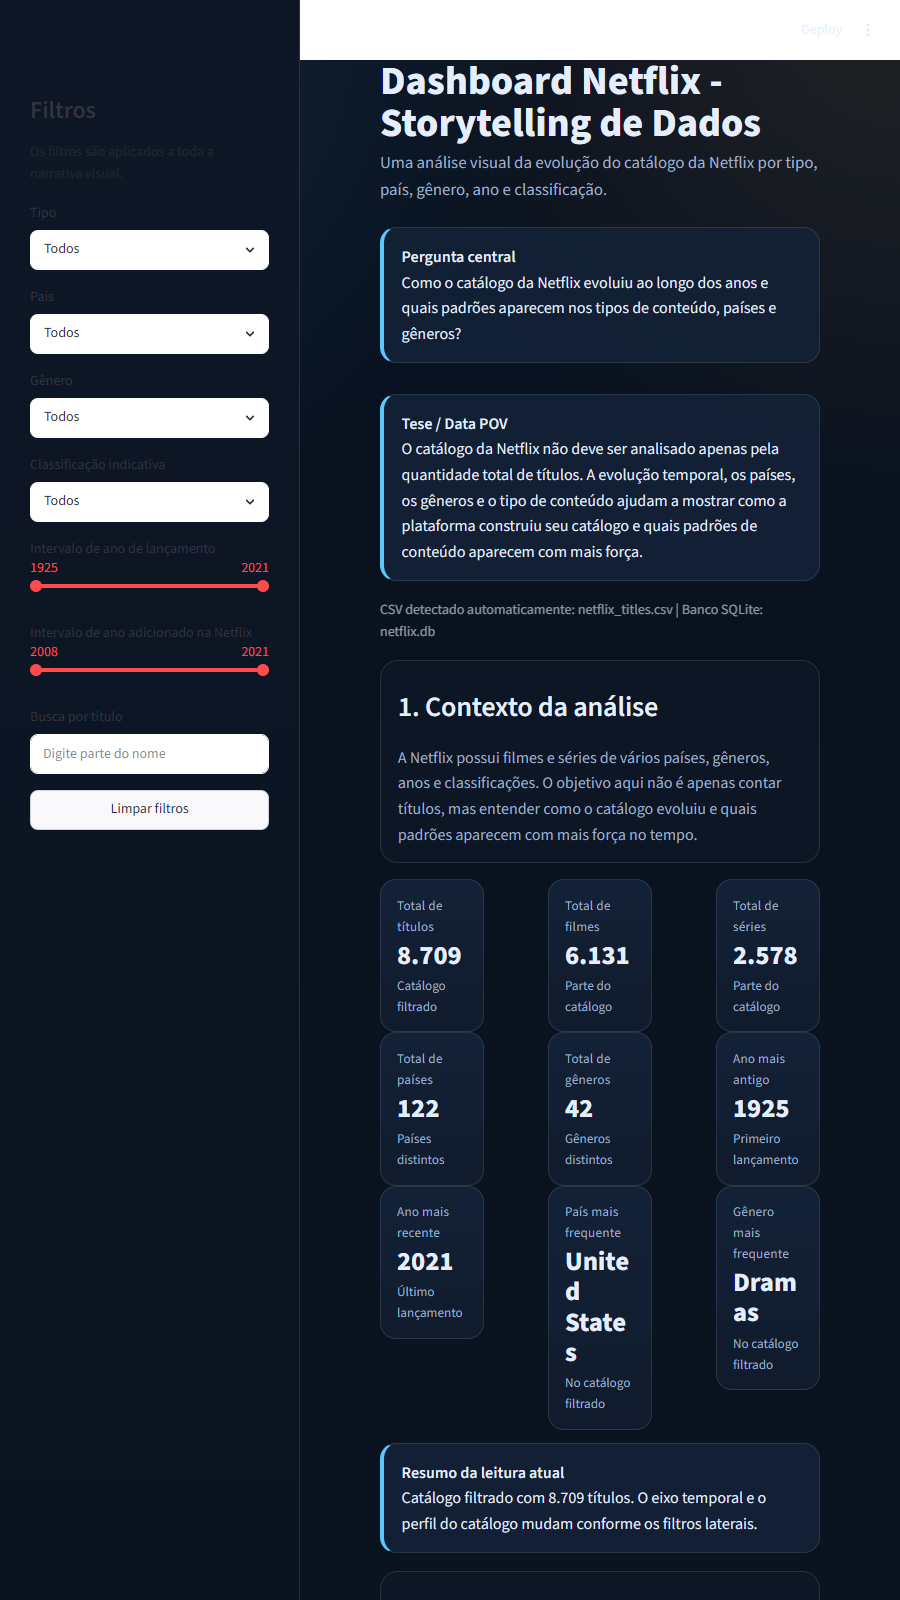
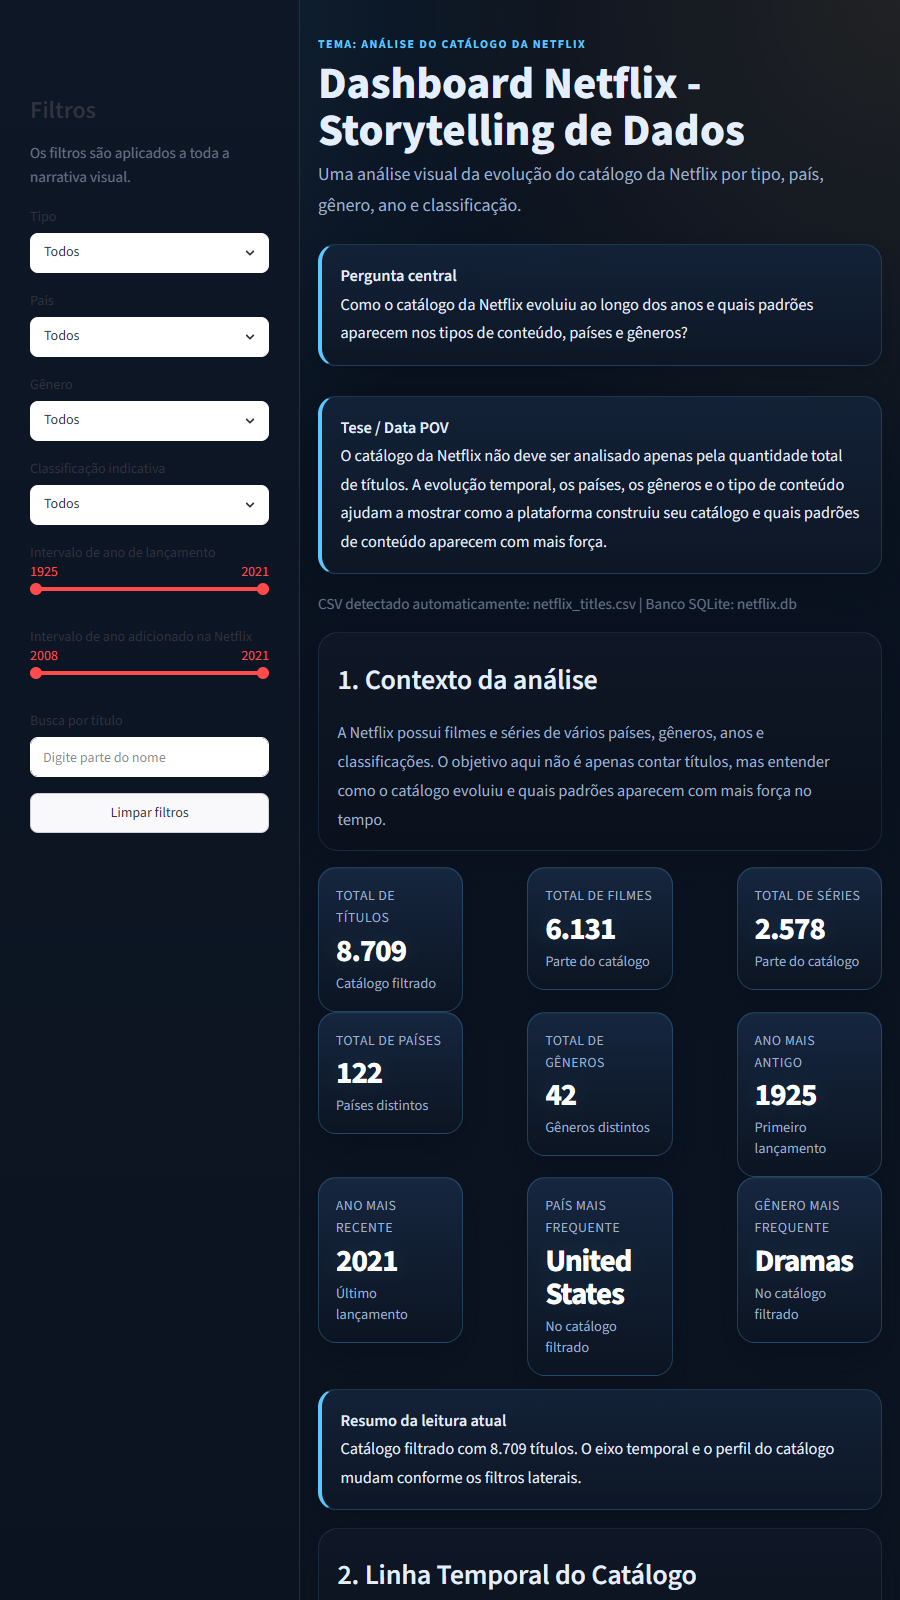
Polimento visual do dashboard Netflix

diff --git a/vercel-static/index.html b/vercel-static/index.html
@@ -3,7 +3,7 @@
   <head>
     <meta charset="UTF-8" />
     <meta name="viewport" content="width=device-width, initial-scale=1.0" />
-    <title>Dashboard Netflix - Análise de Dados</title>
+    <title>Dashboard Netflix - Storytelling de Dados</title>
     <meta
       name="description"
       content="Vitrine estática do Dashboard Netflix com storytelling de dados, linha temporal, filtros e conclusões analíticas."

diff --git a/app.py b/app.py
@@ -121,33 +121,47 @@ st.markdown(
             linear-gradient(180deg, {COLORS["bg"]} 0%, #0b1320 100%);
         color: {COLORS["text"]};
     }}
+    header[data-testid="stHeader"],
+    div[data-testid="stToolbar"],
+    #MainMenu,
+    footer {{
+        visibility: hidden;
+        height: 0;
+    }}
     .block-container {{
+        max-width: 1600px;
         padding-top: 1.2rem;
         padding-bottom: 2rem;
+        padding-left: clamp(1rem, 2vw, 2.5rem);
+        padding-right: clamp(1rem, 2vw, 2.5rem);
     }}
     section[data-testid="stSidebar"] {{
         background: linear-gradient(180deg, {COLORS["panel"]} 0%, #0b1320 100%);
         border-right: 1px solid {COLORS["border"]};
     }}
     .story-title {{
-        font-size: 2.5rem;
+        font-size: 2.8rem;
         font-weight: 800;
         line-height: 1.05;
         margin-bottom: 0.35rem;
         color: {COLORS["text"]};
     }}
     .story-subtitle {{
-        font-size: 1.05rem;
+        font-size: 1.12rem;
+        line-height: 1.7;
         color: {COLORS["muted"]};
         margin-bottom: 0.7rem;
     }}
     .story-callout {{
-        background: rgba(19, 34, 56, 0.82);
-        border: 1px solid {COLORS["border"]};
+        background: linear-gradient(180deg, rgba(19, 34, 56, 0.96), rgba(13, 23, 38, 0.9));
+        border: 1px solid rgba(92, 200, 255, 0.18);
         border-left: 4px solid {COLORS["accent"]};
-        border-radius: 16px;
-        padding: 1rem 1.1rem;
+        border-radius: 18px;
+        padding: 1.05rem 1.15rem;
         margin: 0.8rem 0 1.1rem 0;
+        font-size: 1.02rem;
+        line-height: 1.75;
+        box-shadow: 0 18px 40px rgba(5, 10, 18, 0.26);
     }}
     .story-callout strong {{
         color: {COLORS["text"]};
@@ -161,11 +175,12 @@ st.markdown(
         font-weight: 700;
     }}
     .story-section {{
-        background: rgba(14, 23, 38, 0.74);
-        border: 1px solid {COLORS["border"]};
-        border-radius: 18px;
-        padding: 1.05rem 1.05rem 0.95rem 1.05rem;
+        background: linear-gradient(180deg, rgba(15, 24, 39, 0.94), rgba(10, 16, 27, 0.9));
+        border: 1px solid rgba(92, 200, 255, 0.12);
+        border-radius: 20px;
+        padding: 1.1rem 1.15rem 1rem 1.15rem;
         margin-bottom: 1rem;
+        box-shadow: 0 16px 38px rgba(4, 9, 18, 0.24);
     }}
     .story-section h3 {{
         margin-top: 0;
@@ -175,30 +190,53 @@ st.markdown(
     .story-section p {{
         color: {COLORS["muted"]};
         margin-bottom: 0;
+        font-size: 1.02rem;
+        line-height: 1.78;
     }}
     .metric-box {{
-        background: linear-gradient(180deg, rgba(19, 34, 56, 0.95), rgba(17, 28, 46, 0.88));
-        border: 1px solid {COLORS["border"]};
-        border-radius: 16px;
-        padding: 0.9rem 1rem;
+        background: linear-gradient(180deg, rgba(22, 39, 63, 0.98), rgba(12, 20, 34, 0.96));
+        border: 1px solid rgba(92, 200, 255, 0.22);
+        border-radius: 18px;
+        padding: 1rem 1.05rem;
         height: 100%;
+        box-shadow:
+            0 16px 32px rgba(4, 9, 18, 0.26),
+            inset 0 1px 0 rgba(255, 255, 255, 0.03);
     }}
     .metric-label {{
         color: {COLORS["muted"]};
-        font-size: 0.82rem;
-        letter-spacing: 0.02em;
-        margin-bottom: 0.25rem;
+        font-size: 0.86rem;
+        letter-spacing: 0.035em;
+        margin-bottom: 0.35rem;
+        text-transform: uppercase;
     }}
     .metric-value {{
-        color: {COLORS["text"]};
-        font-size: 1.65rem;
+        color: #ffffff;
+        font-size: clamp(1.95rem, 2.2vw, 2.55rem);
         font-weight: 800;
-        line-height: 1.15;
+        line-height: 1.08;
+        letter-spacing: -0.04em;
+        text-shadow: 0 0 18px rgba(92, 200, 255, 0.08);
     }}
     .metric-detail {{
         color: {COLORS["muted"]};
-        font-size: 0.82rem;
-        margin-top: 0.25rem;
+        font-size: 0.9rem;
+        margin-top: 0.4rem;
+        line-height: 1.45;
+    }}
+    div[data-testid="stCaptionContainer"] p {{
+        font-size: 0.95rem;
+        color: {COLORS["muted"]};
+    }}
+    div[data-testid="stAlert"] {{
+        background: rgba(19, 34, 56, 0.92);
+        border: 1px solid rgba(92, 200, 255, 0.16);
+        color: {COLORS["text"]};
+    }}
+    div[data-testid="stAlert"] p {{
+        font-size: 1.02rem;
+        line-height: 1.7;
+        color: {COLORS["text"]};
     }}
     div[data-testid="stSidebar"] .stSelectbox label,
     div[data-testid="stSidebar"] .stMultiSelect label,

diff --git a/README.md b/README.md
@@ -107,9 +107,12 @@ O dashboard foi organizado como uma história de dados:
 
 ## Prints
 
-Espaço para registrar imagens do projeto apresentado:
+Espaço para registrar imagens do projeto apresentado. O print principal do dashboard fica em `assets/dashboard-home.png`:
 
-- Captura da página principal do dashboard.
+![Dashboard Netflix - visão geral](assets/dashboard-home.png)
+
+Se quiser adicionar mais imagens, você pode incluir no diretório `assets/`:
+
 - Captura da linha temporal do catálogo.
 - Captura dos filtros laterais.
 - Captura da tabela interativa.
